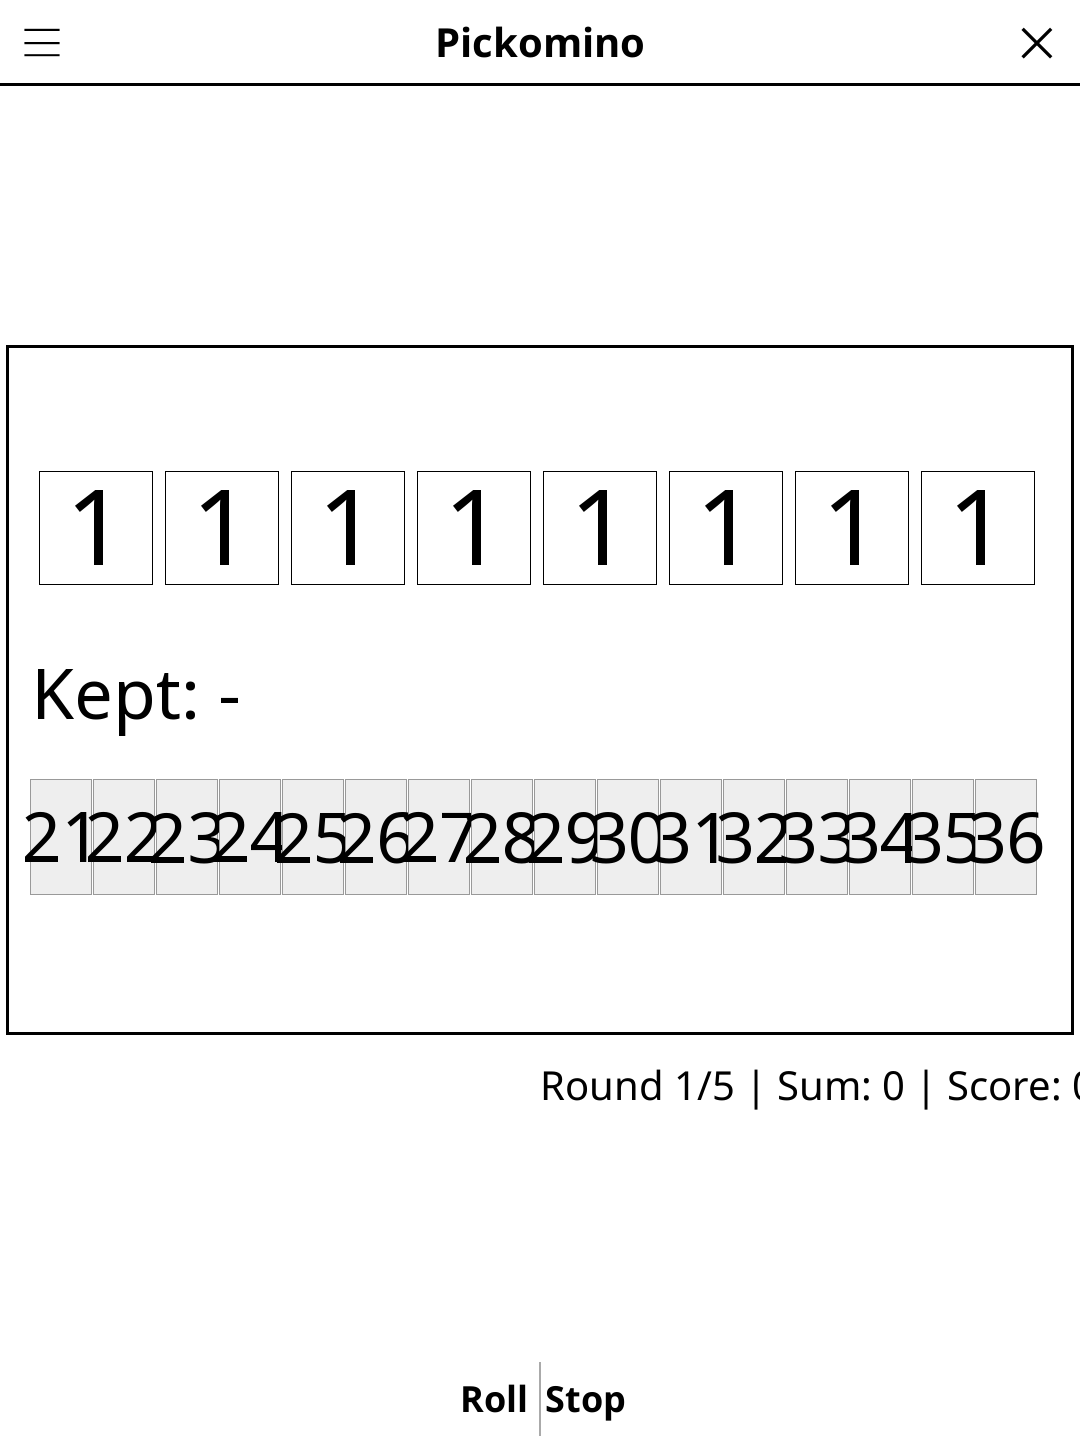
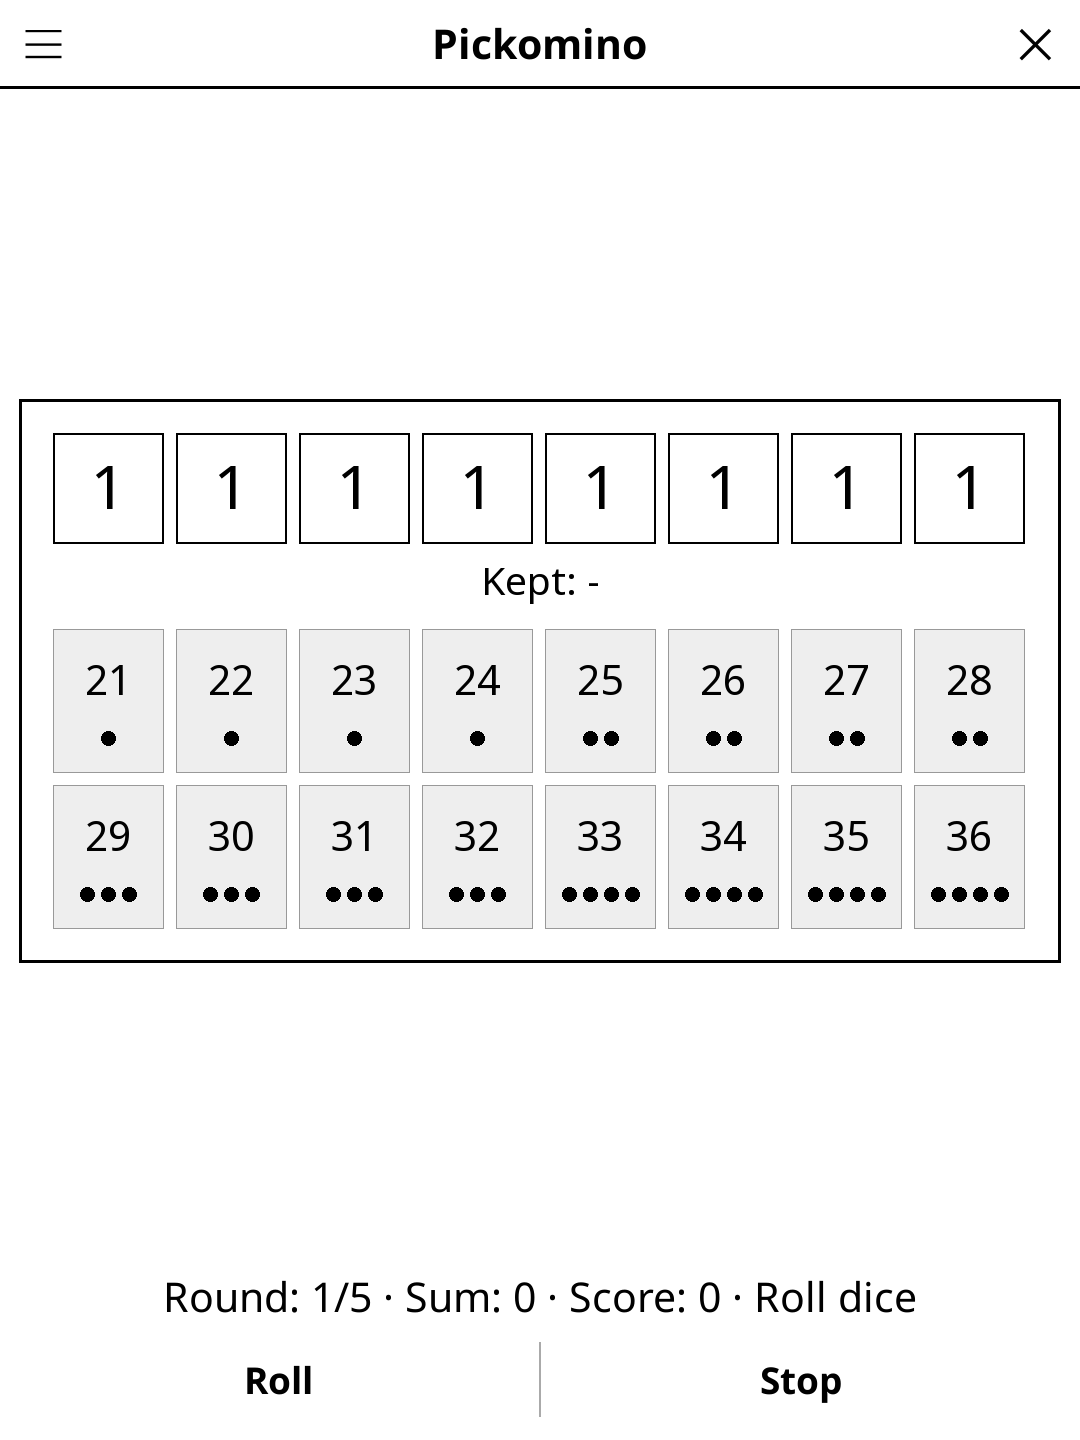
release: 1.2.0 -- redesigned screen, harmonised menu, New game at round end
Screen redesign (full-width action bar, unified pad, status line, larger
board), harmonised title-bar menu, and a "New game" button once the round
is over. See CHANGELOG.md.

diff --git a/CHANGELOG.md b/CHANGELOG.md
@@ -6,6 +6,27 @@ Reconstructed from this repository's git history: each release lists the
 feature and fix commits it carried. Version bumps, screenshot additions
 and CI syncs are left out.
 
+## [1.2.0] - 2026-10-30
+
+### Added
+- "New game" once the game is over: the action bar shows it in place of
+  Roll and Stop, so the next game no longer needs the menu.
+
+### Changed
+- Redesigned play screen, in line with the other games: a full-width action
+  bar and a board that fills the available room, with one frame hugging it.
+  The status line reads "Round: n/m · Sum: n · Score: n" and wraps in
+  landscape instead of being cut off.
+- The 16 tiles are laid out as two rows of eight instead of one cramped row,
+  and each tile shows its worm count as a row of dots under its number.
+  Dice, the "Kept" line and the tiles are sized to fit together, with their
+  text fitted to the boxes it sits in.
+- New README screenshot.
+
+### Fixed
+- Tapping a die face that can't be kept showed no explanation: the "Cannot
+  keep …" message was overwritten by the regular status straight away.
+
 ## [1.1.14] - 2026-10-07
 
 ### Fixed
